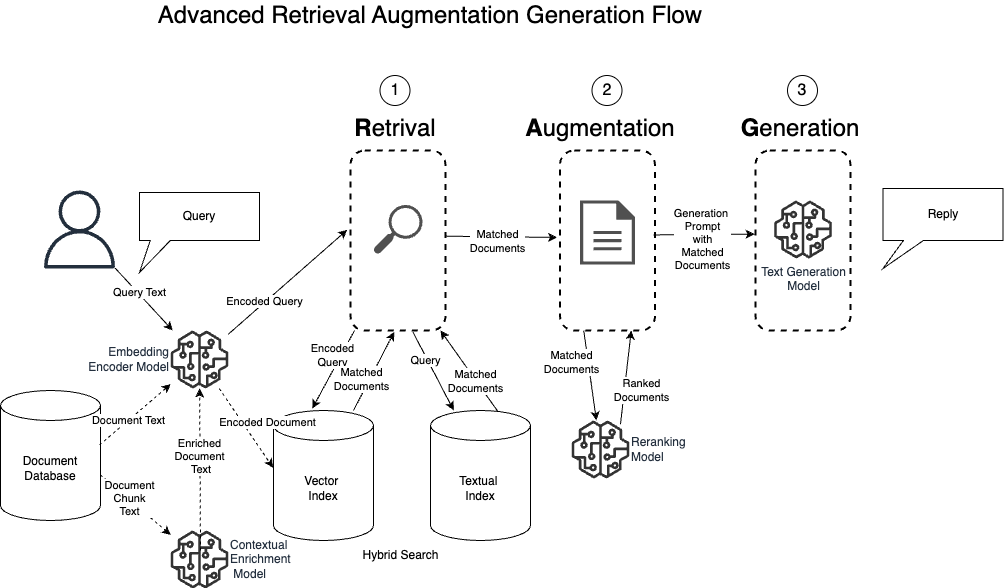
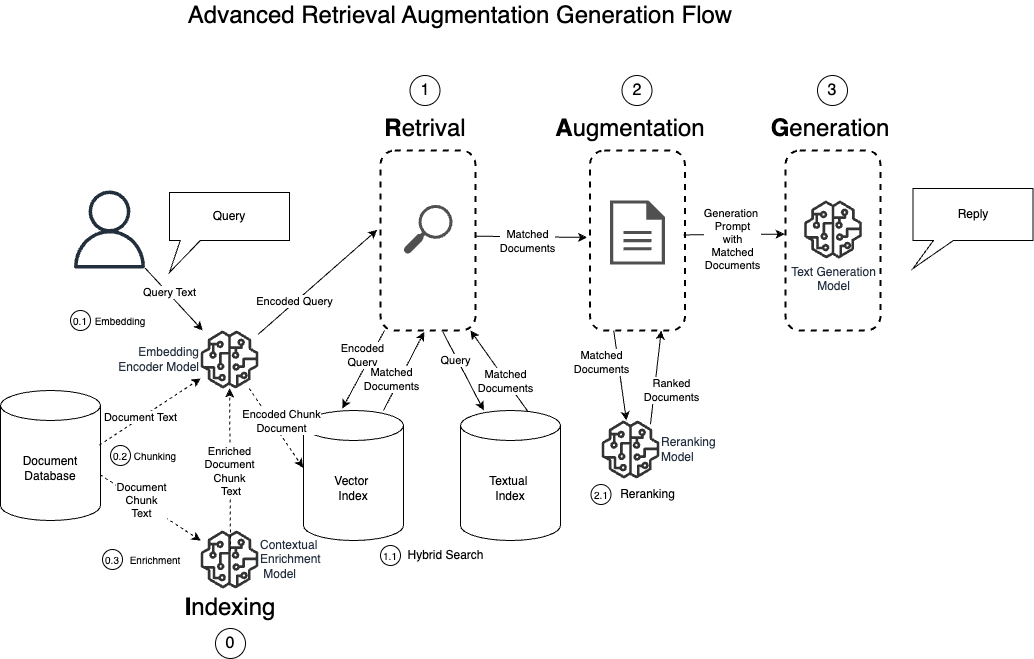
Improving README diagrams.

diff --git a/README.md b/README.md
@@ -7,8 +7,6 @@ deeper into the various problems and solutions when building a RAG system in ent
 
 ![Naive RAG](images/Naiive_RAG.png)
 
-
-
 ## Jupyter Notebooks
 
 1. [Simple RAG](01_simple_rag.ipynb): This notebook introduces the fundamental concepts and implementation of Retrieval Augmented Generation (RAG).
@@ -21,7 +19,11 @@ deeper into the various problems and solutions when building a RAG system in ent
 
 ## Common Problems in RAG Systems and Their Solutions
 
-![Advanced RAG](images/Advanced_RAG.png)
+The problematic part of a RAG application is usually the retrieval part. The system might retrieve the wrong documents, or only part of them and lead to wrong replies. This is the classical problem in machine learning of the precision-recall-tradeoff.
+
+![Recall Precision Tradeoff](images/Recall_Precision_in_RAG_Diagram.png)
+
+The following list of complexity factors in real-life documents can lead to a decrease in overall retrieval accuracy, and the various techniques that can improve the retrieval performance. 
 
 1. **Long Documents**
   - Problem: Difficulty in processing and retrieving information from lengthy documents.
@@ -53,6 +55,10 @@ deeper into the various problems and solutions when building a RAG system in ent
      - Multi-modal retrieval (see: [07_multimodal_pdf.ipynb](07_multimodal_pdf.ipynb))
        - Utilizing computer vision techniques to extract information from images and other non-textual elements within documents.
        - Integrating this information with text-based retrieval methods for a more comprehensive search capability.
+
+## Advanced RAG System
+
+![Advanced RAG](images/Advanced_RAG.png)
 
 ## Set Up
 
